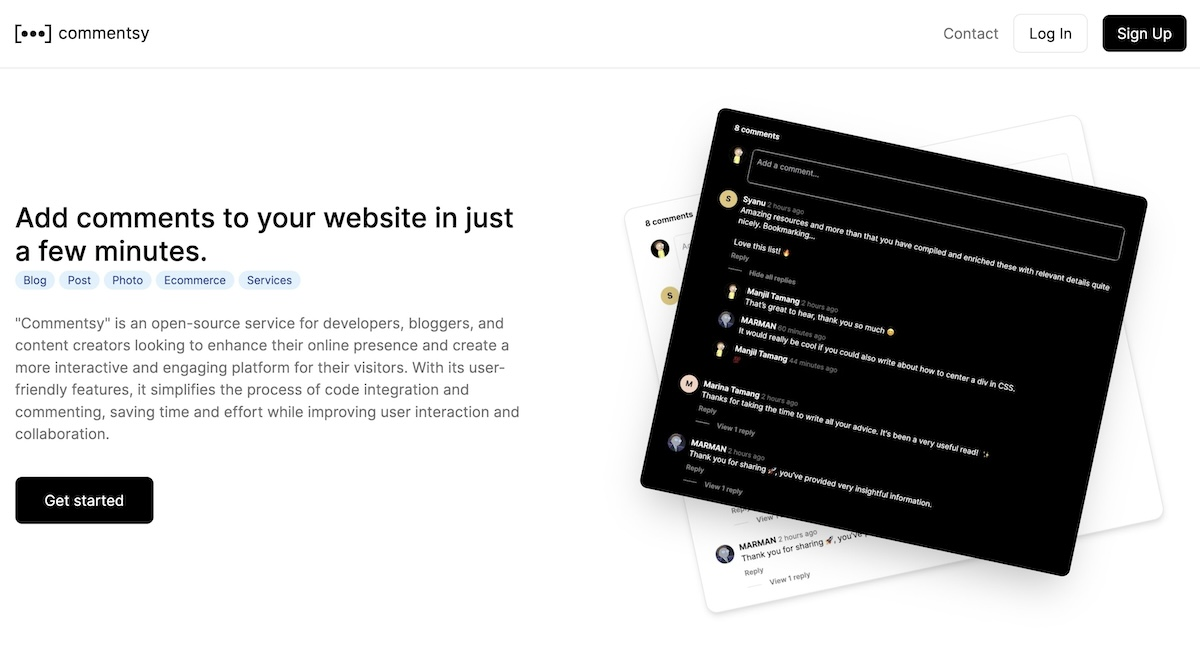
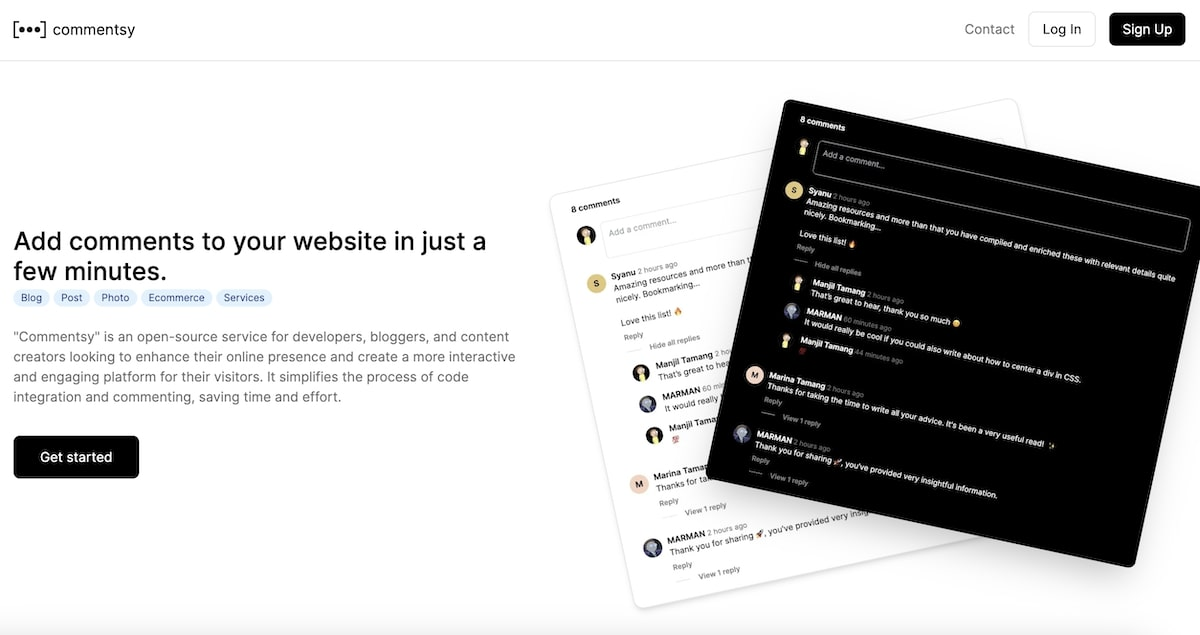
add not a production warning, update meta image

diff --git a/app/legal/terms-of-service/page.tsx b/app/legal/terms-of-service/page.tsx
@@ -11,18 +11,23 @@ async function TermsOfService() {
     <div className="bg-white min-h-screen">
       <div className="max-w-screen-lg mx-auto px-[15px] py-10">
         <h2 className="text-6xl font-bold">Terms of Service</h2>
+
         <p className="my-4">
           Commentsy. (“Commentsy”, “we”, “us” or “our”) is an open source
           project and offers an online public comment sharing platform where you
           may login and create profiles to participate in conversations with
           peers and enjoy an interactive experience. Our services are best only
-          for small businesses and individuals with small-scale needs and it is
-          best to use other commercial projects if your project has extensive
-          needs. These Terms of Service (the “Terms”) govern your use of and
-          access to our comment sharing platform, software and website
-          (collectively the “Service”) by using the Service you understand and
-          agree to be bound by these Terms. Commentsy will not be liable for any
-          losses.
+          for educative and experimental purpose and it is best to use other
+          commercial services of similar kind if commercial projects. These
+          Terms of Service (the “Terms”) govern your use of and access to our
+          comment sharing platform, software and website (collectively the
+          “Service”) by using the Service you understand and agree to be bound
+          by these Terms. Commentsy will not be liable for any losses.
+        </p>
+        <p className="my-4">
+          Please note that this is not a real project and commentsy will not be
+          liable for any losses. We recommended to rather self host this project
+          on your own and then use it.
         </p>
         <p className="my-4 font-bold">Commentsy Account.</p>
         <p className="my-4">

diff --git a/components/ui/alert.tsx b/components/ui/alert.tsx
@@ -1,12 +1,24 @@
 import React from "react";
 
-export function Alert({ children }: { children: React.ReactNode }) {
-  const style = {
-    backgroundColor: "#3c1618",
-    color: "#ff6166",
+export function Alert({
+  variant,
+  children,
+}: {
+  variant: "warn" | "error";
+  children: React.ReactNode;
+}) {
+  let style = {
+    warn: {
+      backgroundColor: "#fcd34d",
+      color: "#000000",
+    },
+    error: {
+      backgroundColor: "#3c1618",
+      color: "#ff6166",
+    },
   };
   return (
-    <div style={style} className="p-3 rounded-lg">
+    <div style={style[variant] ?? style.error} className="p-3 rounded-lg">
       {children}
     </div>
   );

diff --git a/hoc/with-site-layout.tsx b/hoc/with-site-layout.tsx
@@ -1,13 +1,15 @@
 import Footer from "@/components/footer";
 import Navbar from "@/components/navbar";
+import NotAProductionAlert from "@/components/not-a-production-alert";
 
 /* eslint-disable react/display-name */
 export const withSiteLayout =
   (WrappedComponent: React.ComponentType<any>) => (props: any) =>
     (
       <main>
+        <NotAProductionAlert />
         <Navbar />
-        <div style={{ minHeight: "calc(100vh - 64px)", position: "relative" }}>
+        <div style={{ minHeight: "calc(100vh - 106px)", position: "relative" }}>
           <WrappedComponent {...props} />
         </div>
         <Footer />

diff --git a/components/not-a-production-alert.tsx b/components/not-a-production-alert.tsx
@@ -1,0 +1,20 @@
+"use client";
+
+export default function NotAProductionAlert() {
+  return (
+    <div className="p-3 text-black bg-amber-300">
+      Please note that this is not a real project. Hence it is recommended to
+      rather{" "}
+      <a
+        href="https://vercel.com/new"
+        target="_blank"
+        rel="noreferrer"
+        className="underline"
+      >
+        self host
+      </a>{" "}
+      this project on your own and then use it to prevent any potential data
+      losses.
+    </div>
+  );
+}

diff --git a/app/layout.tsx b/app/layout.tsx
@@ -7,10 +7,11 @@ import { SITE_DATA } from "@/constants";
 const inter = Inter({ subsets: ["latin"] });
 
 export const metadata: Metadata = {
+  metadataBase: new URL(process.env.NEXT_PUBLIC_SITE_URL as string),
   title: SITE_DATA.title,
   description: SITE_DATA.description,
   openGraph: {
-    images: `${process.env.NEXT_PUBLIC_SITE_URL}/thumbnail.jpg`,
+    images: `/thumbnail.jpg`,
   },
 };
 

diff --git a/app/page.tsx b/app/page.tsx
@@ -6,6 +6,7 @@ import Image from "next/image";
 import Link from "next/link";
 import HtmlCode from "@/components/code-snippets/html-code";
 import JsCode from "@/components/code-snippets/js-code";
+import NotAProductionAlert from "@/components/not-a-production-alert";
 
 async function HomePage() {
   const session = await getServerSession(options);

diff --git a/components/signin/signin-form.tsx b/components/signin/signin-form.tsx
@@ -42,7 +42,7 @@ export default function SignInForm() {
 
   return (
     <form onSubmit={handleSubmit} className="space-y-4 my-4 w-full">
-      {error && <Alert>{error}</Alert>}
+      {error && <Alert variant="error">{error}</Alert>}
       <div>
         <label className="space-y-2">
           <span>Email</span>

diff --git a/components/app-form/form.tsx b/components/app-form/form.tsx
@@ -70,7 +70,7 @@ export default function AppForm(props: Props) {
     <div>
       <form className="space-y-4" onSubmit={handleSubmit}>
         {errors.length ? (
-          <Alert>
+          <Alert variant="error">
             <ul
               style={
                 errors.length > 1

diff --git a/components/signup/signup-form.tsx b/components/signup/signup-form.tsx
@@ -57,7 +57,7 @@ export default function SignUpForm() {
   return (
     <form onSubmit={handleSubmit} className="space-y-4 my-4 w-full">
       {errors.length ? (
-        <Alert>
+        <Alert variant="error">
           <ul
             style={
               errors.length > 1

diff --git a/constants/index.ts b/constants/index.ts
@@ -1,4 +1,4 @@
 export const SITE_DATA = {
-  title: "Commentsy | Easy comments for your website",
+  title: "Commentsy | Start engaging with your audiences right away",
   description: "Add comments to your site in just few minutes",
 };
